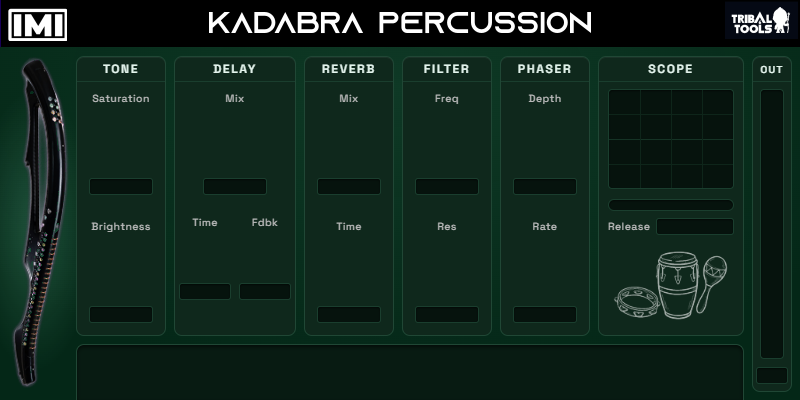
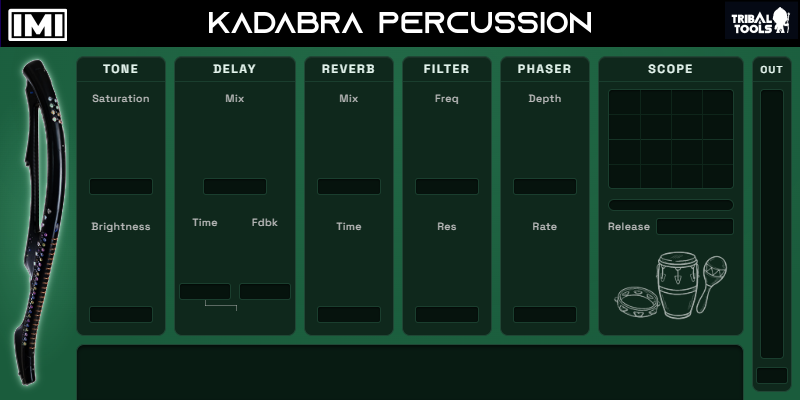
GUI v4: revised base picture, half-width Sync toggle; startup defaults
- New base picture; Delay Sync toggle is now the 53x19 strip at 209,310
  (old 106x19 strips removed)
- DefaultUserPreset = Full Reset so a fresh instance starts at the defaults:
  presets panel closed, Delay Sync on with Time 7, free delay memory 400
- Saved control values aligned series-wide (Release 1 ms, Output Gain -6 dB,
  Delay Feedback 0)

Claude-Session: https://claude.ai/code/session_01SuHFsbACpEgRk3D2d72sew

Changed region(s): [[0.0, 0.12, 1.0, 1.0]]

diff --git a/Scripts/ScriptProcessors/KadabraPercussion/Interface.js b/Scripts/ScriptProcessors/KadabraPercussion/Interface.js
@@ -238,7 +238,7 @@ inline function onDelaySyncModeControl(component, value)
         DelayTimeKnob.set("max", 18);
         DelayTimeKnob.set("middlePosition", 9);
         DelayTimeKnob.set("stepSize", 1);
-        DelayTimeKnob.set("defaultValue", 8);
+        DelayTimeKnob.set("defaultValue", 7);
         DelayTimeKnob.setValue(delaySyncMemory.getValue());   // restore last sync value
     }
     else
@@ -264,7 +264,7 @@ if (DelaySyncMode.getValue() == 1)
     DelayTimeKnob.set("max", 18);
     DelayTimeKnob.set("middlePosition", 9);
     DelayTimeKnob.set("stepSize", 1);
-    DelayTimeKnob.set("defaultValue", 8);
+    DelayTimeKnob.set("defaultValue", 7);
     DelayTimeKnob.setValue(delaySyncMemory.getValue());
 }
 else
